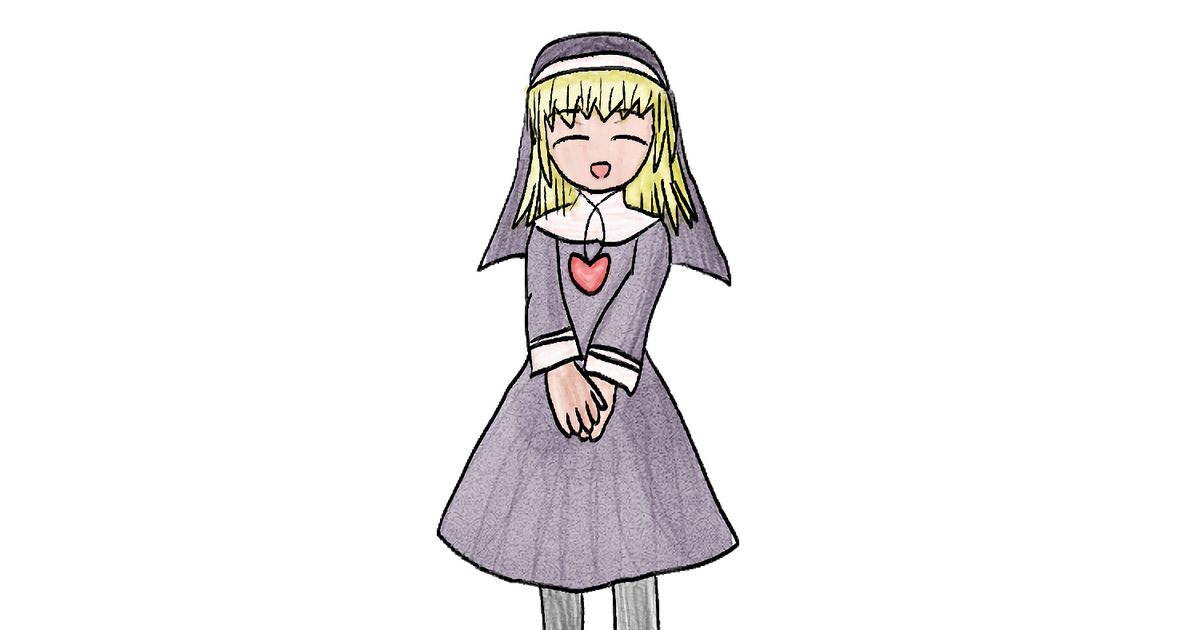
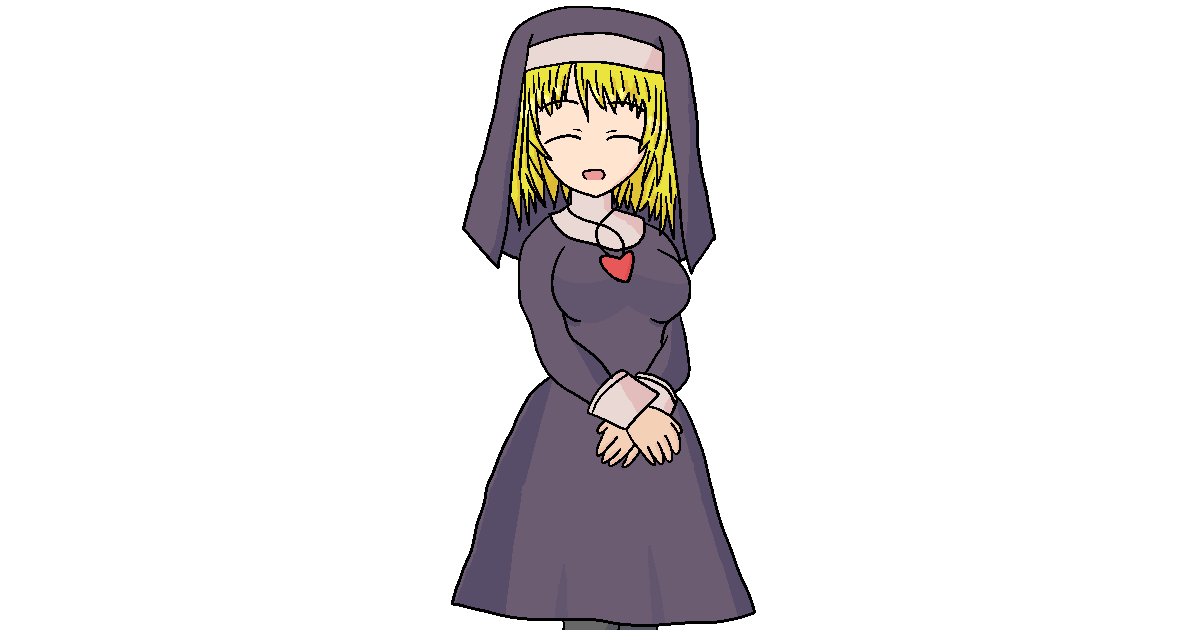
わああああああ

Changed region(s): [[0.3392, 0.0, 0.6475, 1.0]]

diff --git a/lfu.html b/lfu.html
@@ -33,7 +33,7 @@
         <div class="col-12">
 <h2 class="h2-a">ラブフォーユー</h2>
 
-<img src="img/lfu01.png" class="charas">
+<img src="img/lfu05.png" class="charas">
 <!-- <img src="img/comic-01.jpg" class="comics">
 <img src="img/comic-02.jpg" class="comics tame">
 <img src="img/comic-03.jpg" class="comics"> -->
@@ -55,7 +55,7 @@
 性格：優しい……?<br>
 職業：シスター<br>
 好き：人間<br>
-出演作品：フタハナ　ハロウィン2019<br>
+出演作品：フタハナ　ハロウィン2019、暗夜迷宮<br>
 </blockquote>
 シスターの格好をした女。<br>
 <br>
@@ -71,7 +71,13 @@
 <br>
 めちゃくちゃデカい。<br>
 <br>
-別ゲーに出る予定なので個別ページが作られる優遇をされています。
+別ゲーに出る予定なので個別ページが作られる優遇をされています。<br>
+→出ました。<br>
+<br>
+暗夜迷宮にて、桔梗院に協力する怪異という形で参戦。<br>
+ラーメン泰真というカバー店舗で働きつつ、<br>
+ちゃんと撃退したり治安の悪いところで人をかじったりしていた。<br>
+それでも人間は大好きみたいです。ほんとに。いろいろな意味で。<br>
 
 <!--あとでリンクとか説明いれる-->
 
@@ -80,7 +86,8 @@
 <h3>イラストなど</h3>
 
 <ul class="illust">
-  <li><a href="./img/lfu03.png" data-fcaption="令和最新版ラブフォーユー" data-fimg="group1" class="fuwaimg"><img src="./img/lfu03.png"></a></li>
+  <li><a href="./img/lfu03.png" data-fcaption="令和最新版ラブフォーユー　のらくがき" data-fimg="group1" class="fuwaimg"><img src="./img/lfu03.png"></a></li>
+  <li><a href="./img/lfu01.png" data-fcaption="旧立ち絵" data-fimg="group1" class="fuwaimg"><img src="./img/lfu01.png"></a></li>
 </ul>
 <!-- <blockquote>
   引用はこのように記述してください。<br>

diff --git a/index.html b/index.html
@@ -212,7 +212,7 @@
           </a><!-- end comiccard__wrap -->
 
           <a href="lfu.html" class="comiccard__wrap black">
-            <img src="img/lfu04.png" alt="ラブフォーユー">
+            <img src="img/lfu06.png" alt="ラブフォーユー">
             <div class="text">
               <h3>ラブフォーユー</h3>
               <p>巨大人喰いシスター。デカ女シリーズの先駆け。今は優しいシスターだよ♥</p>
